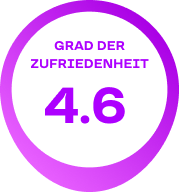
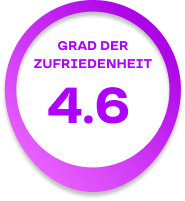
asdasd

diff --git a/src/components/PagesSection/SecondSection.jsx b/src/components/PagesSection/SecondSection.jsx
@@ -1,0 +1,45 @@
+import React from 'react';
+import secondWave from "../../images/Group 22 - thqExclude.png"
+import star from "../../images/Star 7.svg";
+import circle1 from "../../images/circle (4).png"
+import circle2 from "../../images/circle (5).png"
+import circle3 from "../../images/circle (6).png"
+import circle4 from "../../images/circle (7).png"
+const SecondSection = () => {
+    return (
+        <div className="second_container">
+            <div className="second_container_wave">
+                <div className="container">
+                    <div className="second_title">
+                        <div className="second_subtext second_subtext_2">Ihr Erfolg ist <br/> unser Erfolg</div>
+                        <div className="SecondPage_title second_title_2">Ihr Erfolg ist
+                            <span className="SecondPage_title_span second_span_2">unser Erfolg</span>
+                        </div>
+                        <hr className="hr-ihre"/>
+                    </div>
+                    <div className="second_star df">
+                    <img src={star} alt=""/>
+                    <img src={star} alt=""/>
+                    <img src={star} alt=""/>
+                    <img src={star} alt=""/>
+                    <img src={star} alt=""/>
+                </div>
+
+                </div>
+               <img src={secondWave} alt="" className="second_wave"/>
+                <div className="second_wave_adaptive df dn">
+                    <div>
+                        <img src={circle2} alt="" className={"mb20"}/>
+                        <img src={circle1} alt=""/>
+                    </div>
+                    <div>
+                        <img src={circle4} alt="" className={"mb20"}/>
+                        <img src={circle3} alt=""/></div>
+
+                </div>
+            </div>
+        </div>
+    );
+};
+
+export default SecondSection;

diff --git a/src/scss/media.scss b/src/scss/media.scss
@@ -1,3 +1,4 @@
+@import "functions/responsive-width";
 @media (max-width: 1480px) {
  .solution_container{
    padding: 0 30px 0 30px;
@@ -163,5 +164,26 @@
         width: 22.66667% !important;
       }
     }
+  }
+}
+@media (max-width: 780px) {
+ .second_wave{
+   display: none;
+ }
+  .second_wave_adaptive{
+    display: flex !important;
+    justify-content: center;
+    gap: 70px;
+    margin-top: 70px;
+    align-items: center;
+  }
+}
+@media (max-width: 880px) {
+.second_subtext_2{
+  width: 100% !important;
+  font-size: responsive-font-size(26px, 40px) !important;
+}
+  .second_title_2{
+    font-size: responsive-font-size(17px, 30px) !important;
   }
 }

diff --git a/src/pages/FirstPage.jsx b/src/pages/FirstPage.jsx
@@ -3,11 +3,13 @@ import SolutionCompany from "../components/PagesSection/SolutionsCompanySection"
 import TrustCompanySection from "../components/PagesSection/TrustCompanySection";
 import NeedsServices from "../components/PagesSection/NeedsServices";
 import SpeakClientComponent from "../components/PagesSection/SpeakClientComponent";
+import SecondSection from "../components/PagesSection/SecondSection";
 
 const FirstPage = () => {
     return (
         <>
             <SolutionCompany/>
+            <SecondSection/>
             <NeedsServices/>
             <TrustCompanySection/>
             <SpeakClientComponent/>

diff --git a/src/scss/Card.scss b/src/scss/Card.scss
@@ -115,7 +115,7 @@
   margin: 0 auto;
   font-style: normal;
   font-weight: 900;
-  font-size: responsive-font-size(10px, 30px);
+  font-size: responsive-font-size(10px, 36px);
   line-height: 43px;
   text-align: center;
   text-transform: uppercase;
@@ -142,8 +142,7 @@ hr {
   left:50%;
   transform:translate(-50%, -50%);
   padding-top: 36px;
-  font-family: Tahoma, sans-serif;
-  font-weight: bold;
+  font-weight: 900;
   line-height: 67px;
   text-transform: uppercase;
   -webkit-text-stroke: 0.2px #000000;

diff --git a/src/scss/secondSection.scss b/src/scss/secondSection.scss
@@ -1,0 +1,11 @@
+.second{
+  &_wave{
+    width: 100%;
+  }
+  &_star{
+    justify-content: center;
+    padding-top: 20px;
+    gap: 15px;
+    align-items: center;
+  }
+}

diff --git a/src/scss/main.scss b/src/scss/main.scss
@@ -12,6 +12,7 @@
 @import "./slider";
 @import "./trust";
 @import "./client";
+@import "./secondSection";
 .container {
   max-width: 1470px;
   margin: 0 auto;

diff --git a/src/scss/global.scss b/src/scss/global.scss
@@ -71,3 +71,9 @@ body{
 .z100{
   z-index: 100;
 }
+.dn{
+  display: none;
+}
+.mb20{
+  margin-bottom: 20px;
+}

diff --git a/src/scss/SolutionsCompany.scss b/src/scss/SolutionsCompany.scss
@@ -43,4 +43,5 @@
 .waves{
   width: 100%;
   height: 250px;
+  margin-bottom: 70px;
 }
